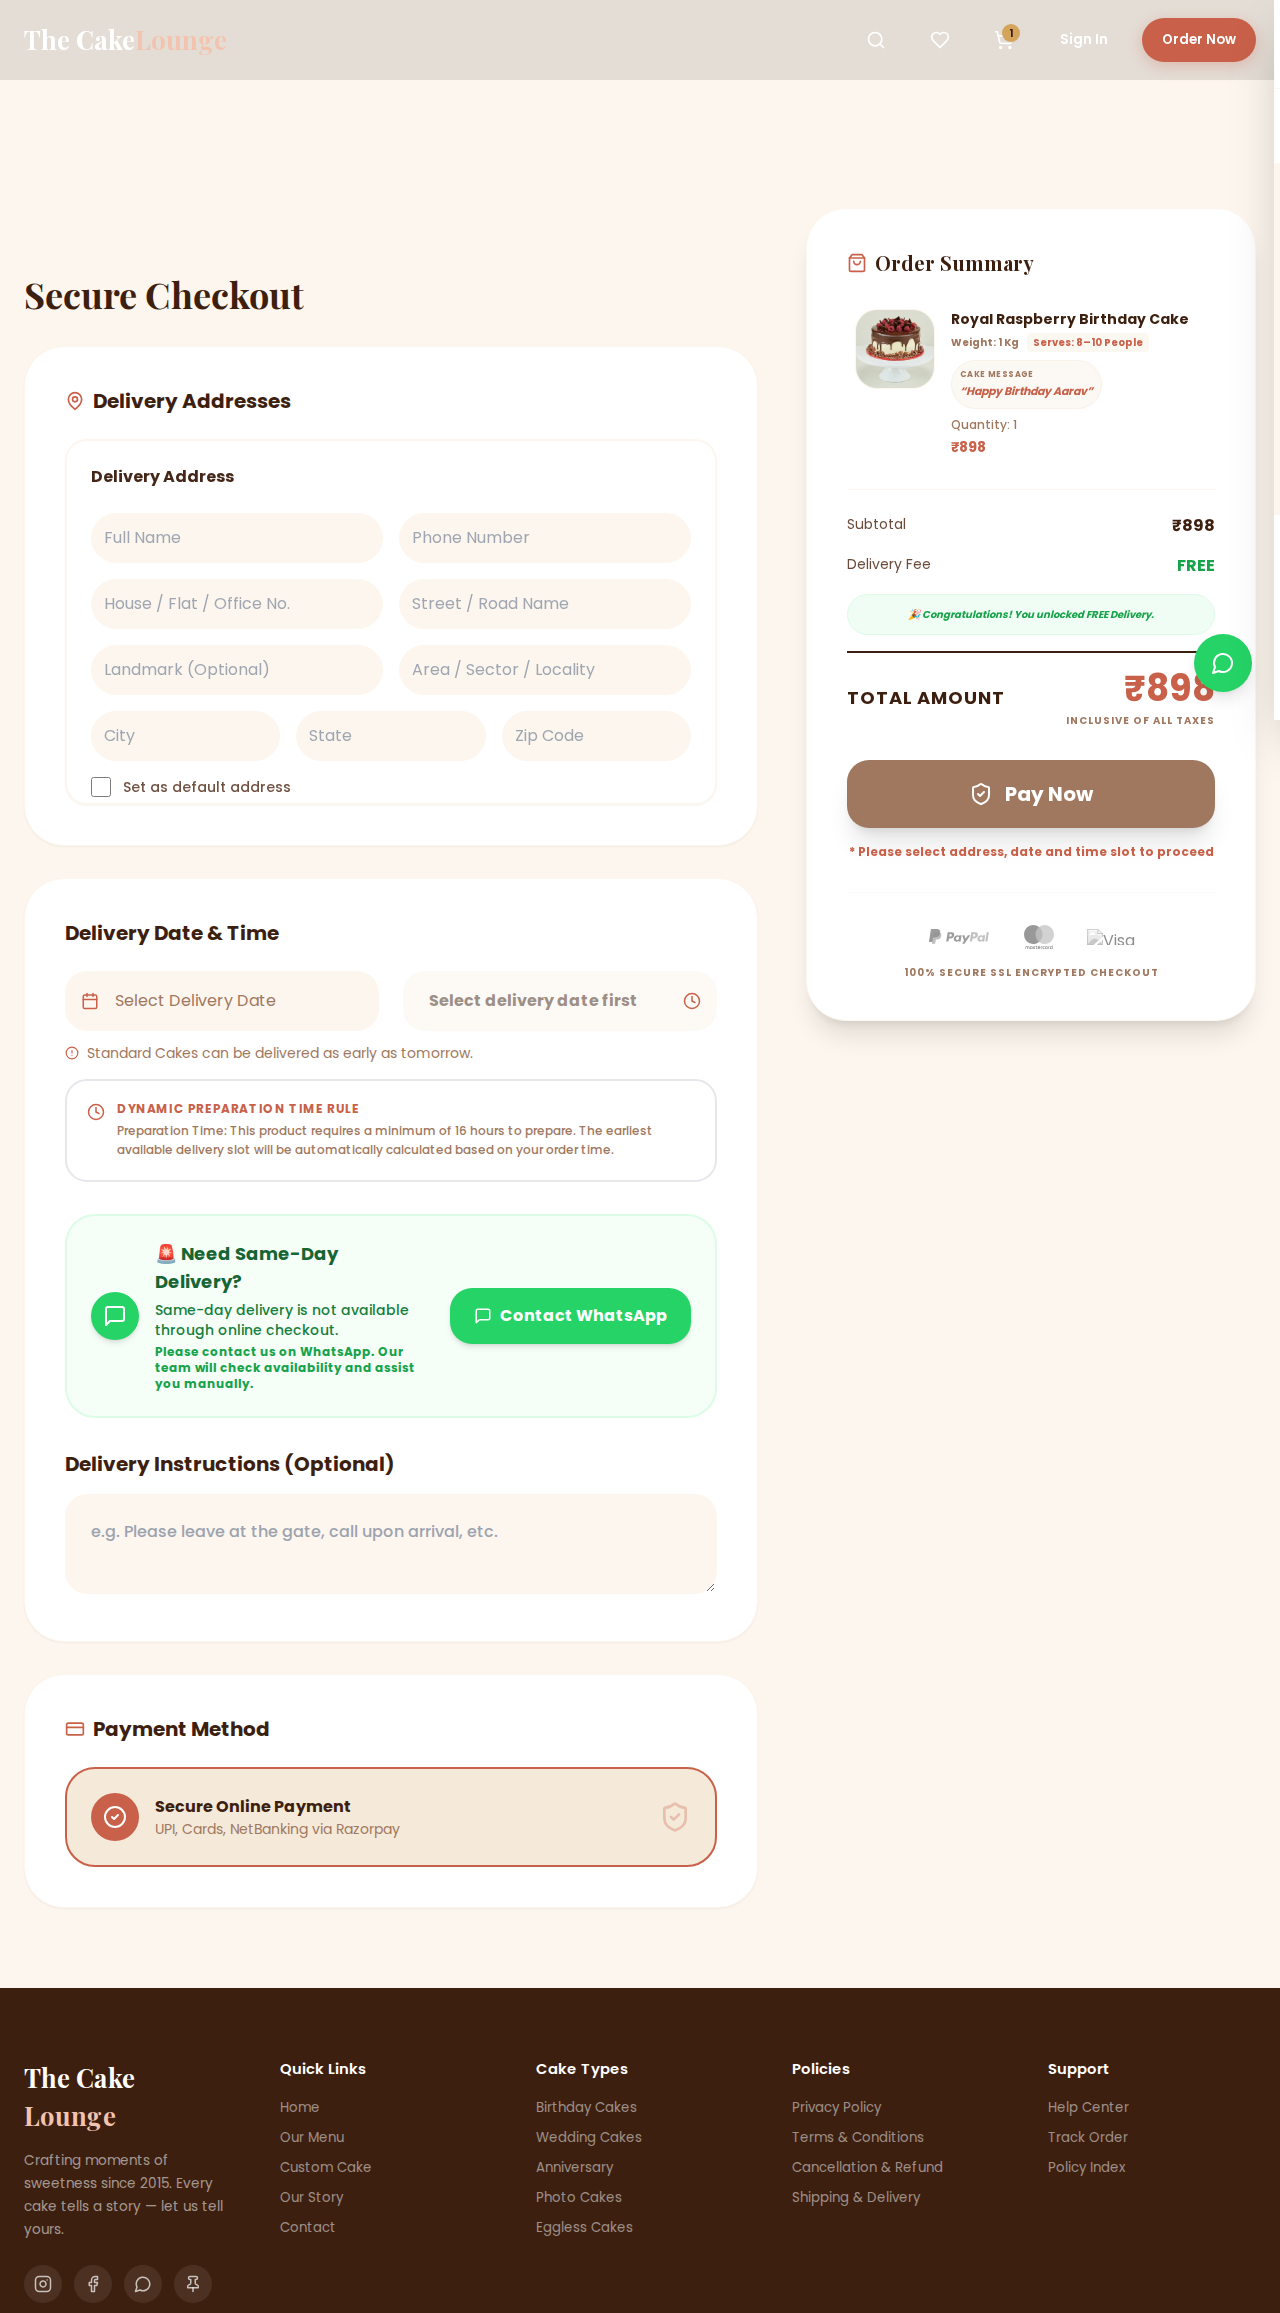
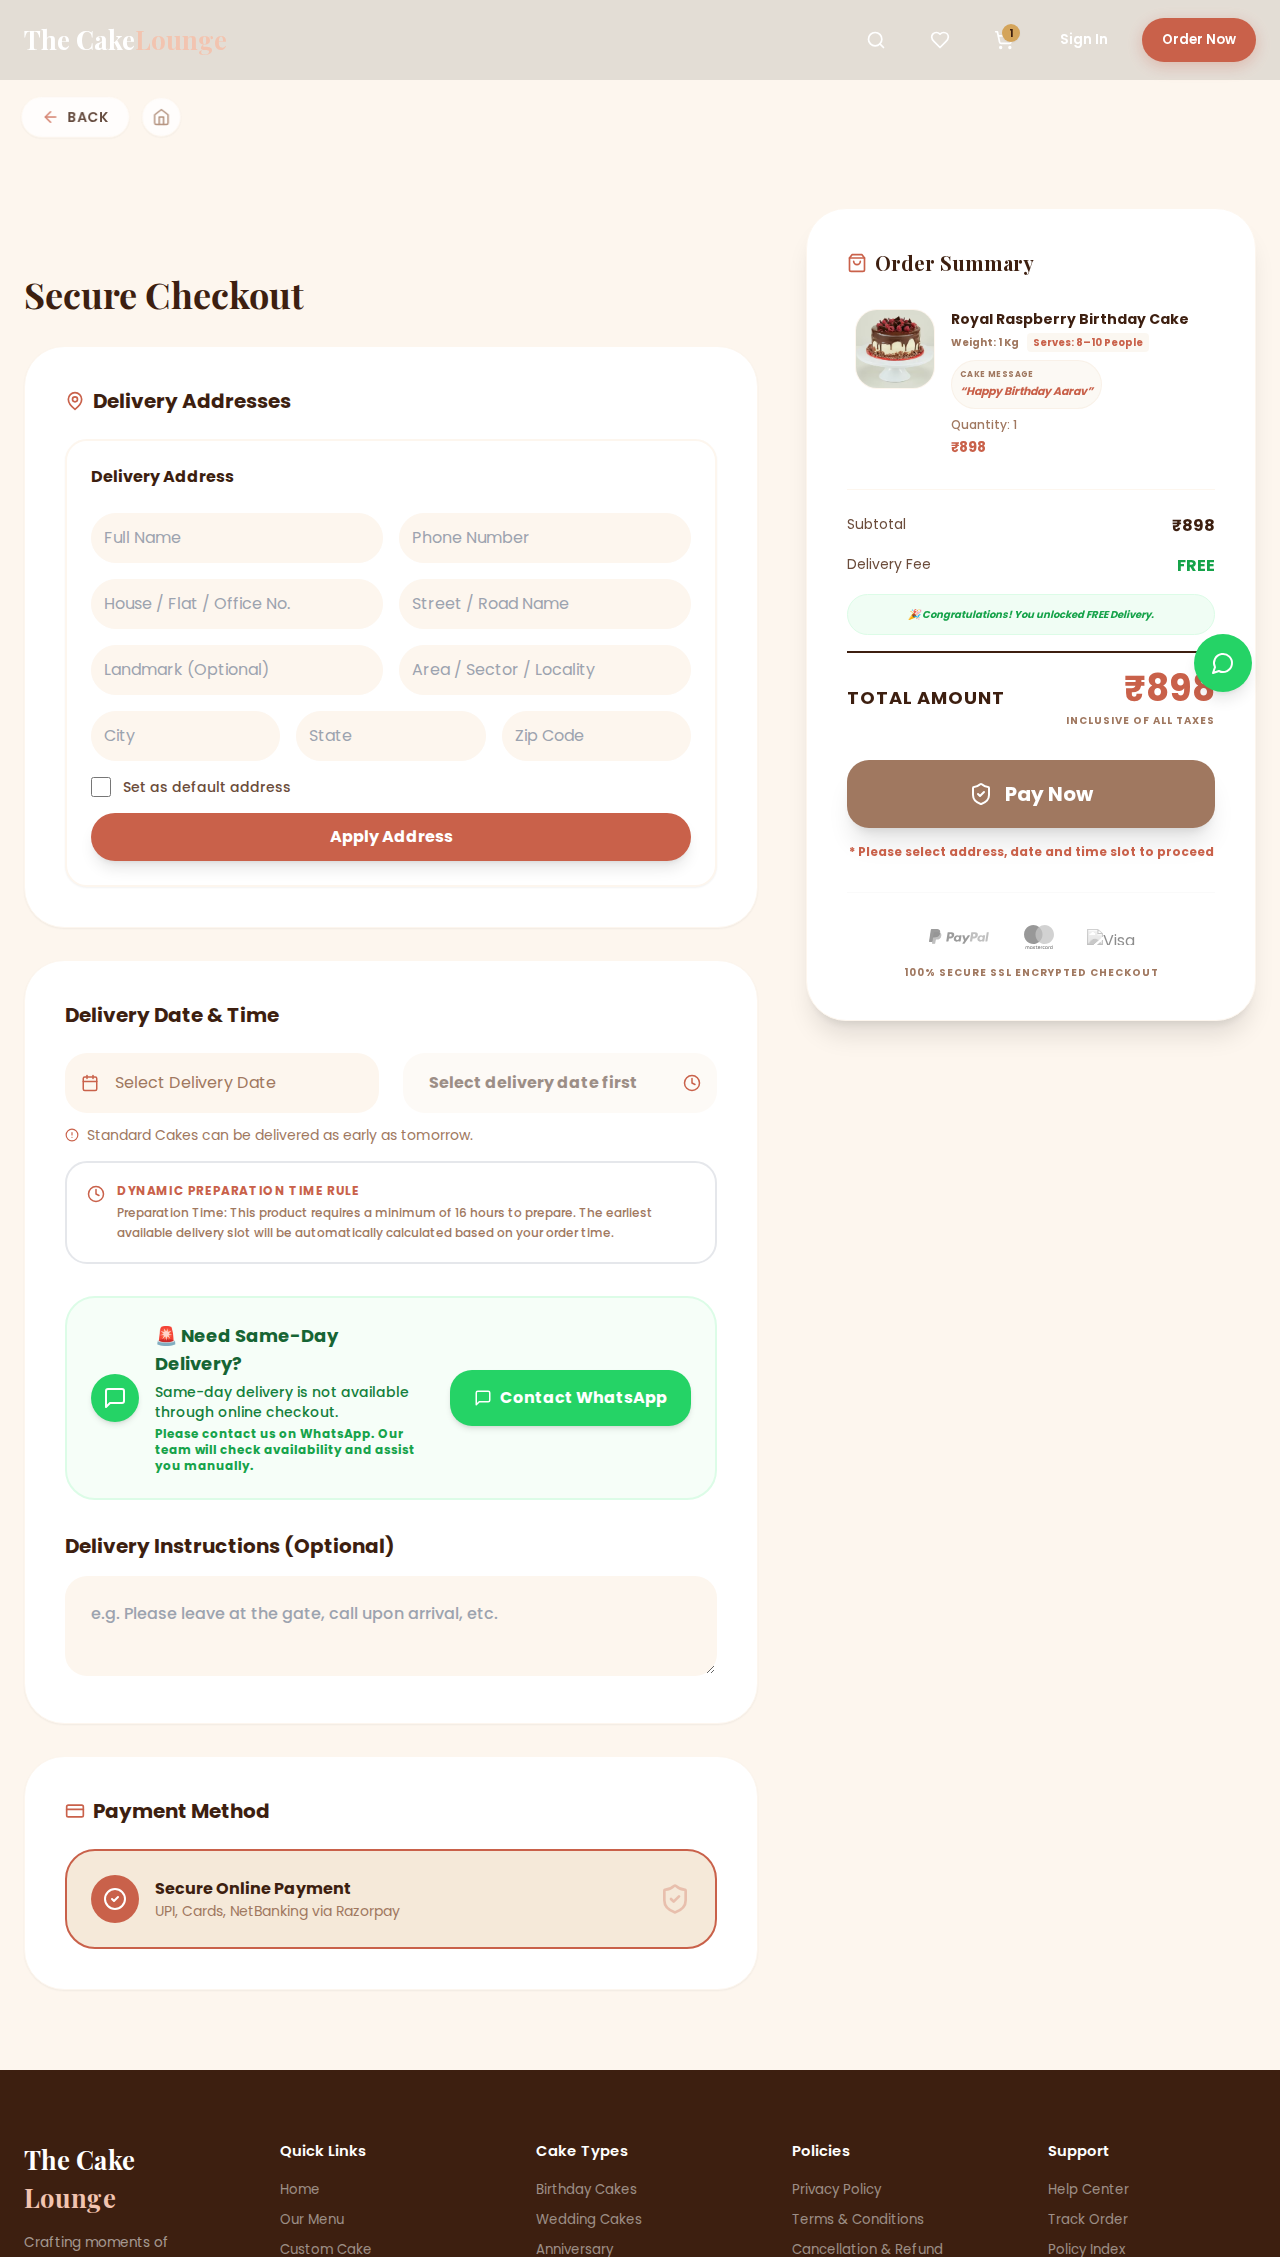
Revert "Real-time Storefront Product Synchronization with Firestore"

diff --git a/playwright-report/index.html b/playwright-report/index.html
@@ -87,4 +87,4 @@ Error generating stack: `+l.message+`
     <div id='root'></div>
   </body>
 </html>
[2 lines of base64/hex data omitted]

diff --git a/src/hooks/useProductAvailability.ts b/src/hooks/useProductAvailability.ts
@@ -1,15 +1,50 @@
 import { useState, useEffect } from 'react';
-import { useProducts } from '@/context/ProductsContext';
+import { db } from '@/utils/firebase';
+import { collection, onSnapshot, query, where } from 'firebase/firestore';
+import { products as staticProducts } from '@/constants/products';
 import { toSlug } from '@/utils/slug';
 
 export const useProductAvailability = () => {
-  const { products } = useProducts();
   const [availableSlugs, setAvailableSlugs] = useState<Set<string>>(new Set());
 
   useEffect(() => {
-    const slugs = new Set(products.map(p => toSlug(p.category)));
-    setAvailableSlugs(slugs);
-  }, [products]);
+    // 1. Get static available slugs
+    const staticSlugs = new Set(staticProducts.map(p => toSlug(p.category)));
+
+    // Initial set from static data
+    setAvailableSlugs(new Set(staticSlugs));
+
+    // If Firebase is not configured, skip onSnapshot setup
+    if (!process.env.NEXT_PUBLIC_FIREBASE_API_KEY || process.env.NEXT_PUBLIC_FIREBASE_API_KEY === "your_api_key") {
+      return;
+    }
+
+    // 2. Real-time sync with Firestore products to get additional categories
+    // We only need to know which categories HAVE products.
+    // However, to keep it simple and real-time, we listen to all active products.
+    const q = query(
+      collection(db, 'products'),
+      where('status', '==', 'available')
+    );
+
+    const unsubscribe = onSnapshot(q, (snapshot) => {
+      const dynamicSlugs = new Set<string>();
+      snapshot.docs.forEach(doc => {
+        const data = doc.data();
+        if (data.category) {
+          dynamicSlugs.add(toSlug(data.category));
+        }
+      });
+
+      // Combine static and dynamic
+      const combined = new Set([...Array.from(staticSlugs), ...Array.from(dynamicSlugs)]);
+      setAvailableSlugs(combined);
+    }, (error) => {
+      console.error("Error listening to product availability:", error);
+    });
+
+    return () => unsubscribe();
+  }, []);
 
   return availableSlugs;
 };

diff --git a/src/app/layout.tsx b/src/app/layout.tsx
@@ -5,7 +5,6 @@ import { CartProvider } from "@/context/CartContext";
 import { AuthProvider } from "@/context/AuthContext";
 import { FlyToCartProvider } from "@/context/FlyToCartContext";
 import { WishlistProvider } from "@/context/WishlistContext";
-import { ProductsProvider } from "@/context/ProductsContext";
 import Navbar from "@/components/Navbar";
 import Footer from "@/components/Footer";
 import CartBubble from "@/components/CartBubble";
@@ -37,18 +36,16 @@ export default function RootLayout({
     <html lang="en">
       <body className={`${playfair.variable} ${poppins.variable} font-poppins`}>
         <AuthProvider>
-          <ProductsProvider>
-            <CartProvider>
-              <FlyToCartProvider>
-                <WishlistProvider>
-                  <Navbar />
-                  <main>{children}</main>
-                  <Footer />
-                  <CartBubble />
-                </WishlistProvider>
-              </FlyToCartProvider>
-            </CartProvider>
-          </ProductsProvider>
+          <CartProvider>
+            <FlyToCartProvider>
+              <WishlistProvider>
+                <Navbar />
+                <main>{children}</main>
+                <Footer />
+                <CartBubble />
+              </WishlistProvider>
+            </FlyToCartProvider>
+          </CartProvider>
         </AuthProvider>
       </body>
     </html>

diff --git a/src/components/ProductRecommendations.tsx b/src/components/ProductRecommendations.tsx
@@ -2,8 +2,7 @@
 
 import React, { useState, useMemo } from 'react';
 import { ArrowRight } from 'lucide-react';
-import { Product } from '@/constants/products';
-import { useProducts } from '@/context/ProductsContext';
+import { Product, products as fallbackProducts } from '@/constants/products';
 import { getRecommendations } from '@/utils/recommendationEngine';
 import RecommendationCard from './RecommendationCard';
 import { RecommendationsDrawer } from './RecommendationsDrawer';
@@ -15,16 +14,14 @@ interface ProductRecommendationsProps {
 
 export const ProductRecommendations: React.FC<ProductRecommendationsProps> = ({
   currentProduct,
-  allProducts,
+  allProducts = fallbackProducts,
 }) => {
-  const { products: contextProducts } = useProducts();
-  const productsToUse = allProducts || contextProducts;
   const [isDrawerOpen, setIsDrawerOpen] = useState(false);
 
   // Memoize recommendation calculations
   const recommendedList = useMemo(() => {
-    return getRecommendations(currentProduct, productsToUse, { limit: 12 });
-  }, [currentProduct, productsToUse]);
+    return getRecommendations(currentProduct, allProducts, { limit: 12 });
+  }, [currentProduct, allProducts]);
 
   // First 4 products to display in the main PDP section
   const pdpRecommendations = useMemo(() => {

diff --git a/src/app/menu/page.tsx b/src/app/menu/page.tsx
@@ -1,8 +1,7 @@
 "use client";
 
 import React, { useState, useMemo, useEffect, Suspense } from 'react';
-import { Product } from '@/constants/products';
-import { useProducts } from '@/context/ProductsContext';
+import { products, Product } from '@/constants/products';
 import ProductCard from '@/components/ProductCard';
 import { ArrowLeft, Loader2 } from 'lucide-react';
 import SearchBar from '@/components/shop/SearchBar';
@@ -19,7 +18,6 @@ const MenuContent = () => {
   const router = useRouter();
   const searchParams = useSearchParams();
   const categoryParam = searchParams.get('category');
-  const { products, loading: productsLoading } = useProducts();
 
   const [activeCategory, setActiveCategory] = useState<string>('All');
   const [searchQuery, setSearchQuery] = useState('');
@@ -62,7 +60,7 @@ const MenuContent = () => {
     });
 
     return () => unsubscribe();
-  }, [products]);
+  }, []);
 
   // Update active category based on URL parameter
   useEffect(() => {
@@ -108,7 +106,7 @@ const MenuContent = () => {
       activeCategory === 'All' || product.category === activeCategory
     );
     return filterProducts(categoryFiltered, searchQuery);
-  }, [activeCategory, searchQuery, products]);
+  }, [activeCategory, searchQuery]);
 
   return (
     <PageWrapper>

diff --git a/src/components/shop/SearchBar.tsx b/src/components/shop/SearchBar.tsx
@@ -2,8 +2,7 @@
 
 import React, { useState, useEffect, useRef } from 'react';
 import { Search, X } from 'lucide-react';
-import { Product } from '@/constants/products';
-import { useProducts } from '@/context/ProductsContext';
+import { products, Product } from '@/constants/products';
 import Image from 'next/image';
 import { useRouter } from 'next/navigation';
 import { filterProducts } from '@/utils/filterProducts';
@@ -14,7 +13,6 @@ interface SearchBarProps {
 }
 
 const SearchBar: React.FC<SearchBarProps> = ({ onSearch, placeholder = "Search for cakes, categories, or flavors..." }) => {
-  const { products } = useProducts();
   const [query, setQuery] = useState('');
   const [suggestions, setSuggestions] = useState<Product[]>([]);
   const [showSuggestions, setShowSuggestions] = useState(false);
@@ -31,7 +29,7 @@ const SearchBar: React.FC<SearchBarProps> = ({ onSearch, placeholder = "Search f
       setShowSuggestions(false);
     }
     onSearch(query);
-  }, [query, onSearch, products]);
+  }, [query, onSearch]);
 
   useEffect(() => {
     const handleClickOutside = (event: MouseEvent) => {

diff --git a/src/components/CartModal.tsx b/src/components/CartModal.tsx
@@ -7,7 +7,7 @@ import { useRouter } from 'next/navigation';
 import Image from 'next/image';
 import { motion, AnimatePresence } from 'framer-motion';
 import BackButton from './BackButton';
-import { useProducts } from '@/context/ProductsContext';
+import { products } from '@/constants/products';
 
 interface CartModalProps {
   isOpen: boolean;
@@ -16,7 +16,6 @@ interface CartModalProps {
 
 const CartModal: React.FC<CartModalProps> = ({ isOpen, onClose }) => {
   const { cart, removeFromCart, updateQuantity, cartTotal, cartCount, isLoading, addToCart } = useCart();
-  const { products } = useProducts();
   const router = useRouter();
 
   const recommendations = React.useMemo(() => {
@@ -59,7 +58,7 @@ const CartModal: React.FC<CartModalProps> = ({ isOpen, onClose }) => {
 
     // Take top 4 recommended products
     return scored.slice(0, 4).map((s) => s.product);
-  }, [cart, products]);
+  }, [cart]);
 
   return (
     <AnimatePresence>

diff --git a/src/components/home/FeaturedProducts.tsx b/src/components/home/FeaturedProducts.tsx
@@ -1,19 +1,15 @@
-"use client";
-
 import React from 'react';
-import { useProducts } from '@/context/ProductsContext';
+import { products } from '@/constants/products';
 import ProductCard from '../ProductCard';
 import Link from 'next/link';
 import { ArrowRight } from 'lucide-react';
 
 const FeaturedProducts = () => {
-  const { products } = useProducts();
   const featuredIds = [1, 2, 3, 5, 6, 7, 9, 11, 13, 17, 55, 59, 103, 114, 325, 327];
 
-  // Map featured IDs and append any dynamic products explicitly marked as isFeatured
-  const featured = products.filter(p =>
-    featuredIds.includes(Number(p.id)) || p.isFeatured === true
-  );
+  const featured = featuredIds
+    .map(id => products.find(p => p.id === id))
+    .filter((p): p is typeof products[0] => p !== undefined);
 
   return (
     <section id="products" className="py-20 bg-cream-dark">

diff --git a/src/components/home/Gallery.tsx b/src/components/home/Gallery.tsx
@@ -1,12 +1,9 @@
-"use client";
-
 import React, { useMemo } from 'react';
 import Image from 'next/image';
 import Link from 'next/link';
-import { useProducts } from '@/context/ProductsContext';
+import { products } from '@/constants/products';
 
 const Gallery = () => {
-  const { products } = useProducts();
   const galleryImgs = useMemo(() => {
     const prioritizedCategories = [
       'Birthday Cakes',
@@ -35,8 +32,8 @@ const Gallery = () => {
         src: bestProduct.img,
         label: bestProduct.name
       };
-    }).filter((img): img is { id: any; src: string; label: string } => img !== null);
-  }, [products]);
+    }).filter((img): img is { id: number; src: string; label: string } => img !== null);
+  }, []);
 
   return (
     <section id="gallery" className="py-20 bg-chocolate overflow-hidden">

diff --git a/src/components/shop/CategoryPage.tsx b/src/components/shop/CategoryPage.tsx
@@ -1,8 +1,7 @@
 "use client";
 
 import React from 'react';
-import { Product } from '@/constants/products';
-import { useProducts } from '@/context/ProductsContext';
+import { Product, products } from '@/constants/products';
 import ProductCard from '@/components/ProductCard';
 import BackButton from '@/components/BackButton';
 
@@ -14,7 +13,6 @@ interface CategoryPageProps {
 }
 
 const CategoryPage = ({ category, title, description, subtitle }: CategoryPageProps) => {
-  const { products } = useProducts();
   const filteredProducts = products.filter((p) => p.category === category);
 
   return (

diff --git a/src/constants/products.ts b/src/constants/products.ts
@@ -4,7 +4,7 @@ export interface ProductWeight {
 }
 
 export interface Product {
-  id: any;
+  id: number;
   name: string;
   flavor: string;
   category: string;
@@ -17,13 +17,6 @@ export interface Product {
   img: string;
   description: string;
   preparationTime?: number; // preparation time in hours, defaults to 16
-  isFeatured?: boolean;
-  isBestSeller?: boolean;
-  isNewArrival?: boolean;
-  inStock?: boolean;
-  active?: boolean;
-  status?: string;
-  images?: string[];
 }
 
 export const products: Product[] = [
